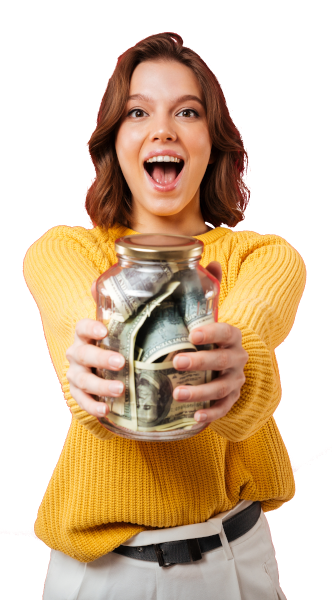
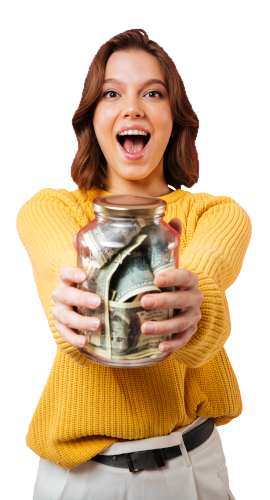
Images adjustments done.

diff --git a/src/app/login/signin/signin.component.html b/src/app/login/signin/signin.component.html
@@ -1,7 +1,7 @@
 <div class="row-login-mobile">
     <div class="row">
         <div class="col coluna-esquerda-login text-center">
-            <img class="login-img-mobile img-fluid" src="../../assets/img/img-homem01.png" alt="Imagem Login">
+            <img class="mt-4 login-img-mobile img-fluid" src="../../assets/img/img-homem01.png" alt="Imagem Login">
         </div>
     </div>
     <div class="row">
@@ -25,9 +25,9 @@
                 </form>
 
                 <a class="btn btn-light" [routerLink]="[ '/' ]">Voltar para a Home</a>
-                <p>Não é cadastrado? <a [routerLink]="['/login/cadastro']">Registre-se agora!</a></p>
+                <p class="mt-2">Não é cadastrado? <a [routerLink]="['/login/cadastro']">Registre-se agora!</a></p>
 
-                <p class="mt-5 mb-3 text-muted">© 2020</p>
+                <p class="mt-4 mb-3 text-muted">© 2020</p>
             </div>
         </div>
     </div>
